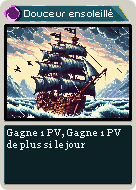
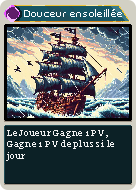
Grammaire corrections

diff --git a/ProjetPirates/src/main/java/noyau/JeuDeCarte.java b/ProjetPirates/src/main/java/noyau/JeuDeCarte.java
@@ -33,7 +33,7 @@ public class JeuDeCarte {
             new Configuration(new CarteNuitAttaque("Fureur de la nuit", 5, "Inflige -1 PV à l'adversaire, Inflige -1 PV de plus si la nuit", null, (p, j) -> p.getHP()-1), 10),
             new Configuration(new CarteAttaqueLambda("Kamikaze", 6, "Inflige 2 PV à l'adversaire. Inflige 1 PV à soi-même",
                     (pirate, jeu) -> pirate.getHP()-1, ((pirate, jeu) -> pirate.getHP()-2)), 9),
-            new Configuration(new CarteAttaqueLambda("Coup bas", 7, "L'adversaire perds 1PV", null, (p, j) -> p.getHP()-1), 12),
+            new Configuration(new CarteAttaqueLambda("Coup bas", 7, "L'adversaire perd 1PV", null, (p, j) -> p.getHP()-1), 12),
             new Configuration(new CartePopulariteLambda("Le malade imaginaire", 9, "Le joueur Gagne 2PP mais perd 1PV", BasicCategorie.POPULARITE,
                     (pirate, jeu) -> pirate.getPP()+2, (pirate, jeu) -> pirate.getHP()-1), 9),
             new Configuration(new CartePiecePopularite("La chance du joueur", 10, "Le joueur lance un pièce, tant que pile, il gagne +1 PP", BasicCategorie.POPULARITE,
